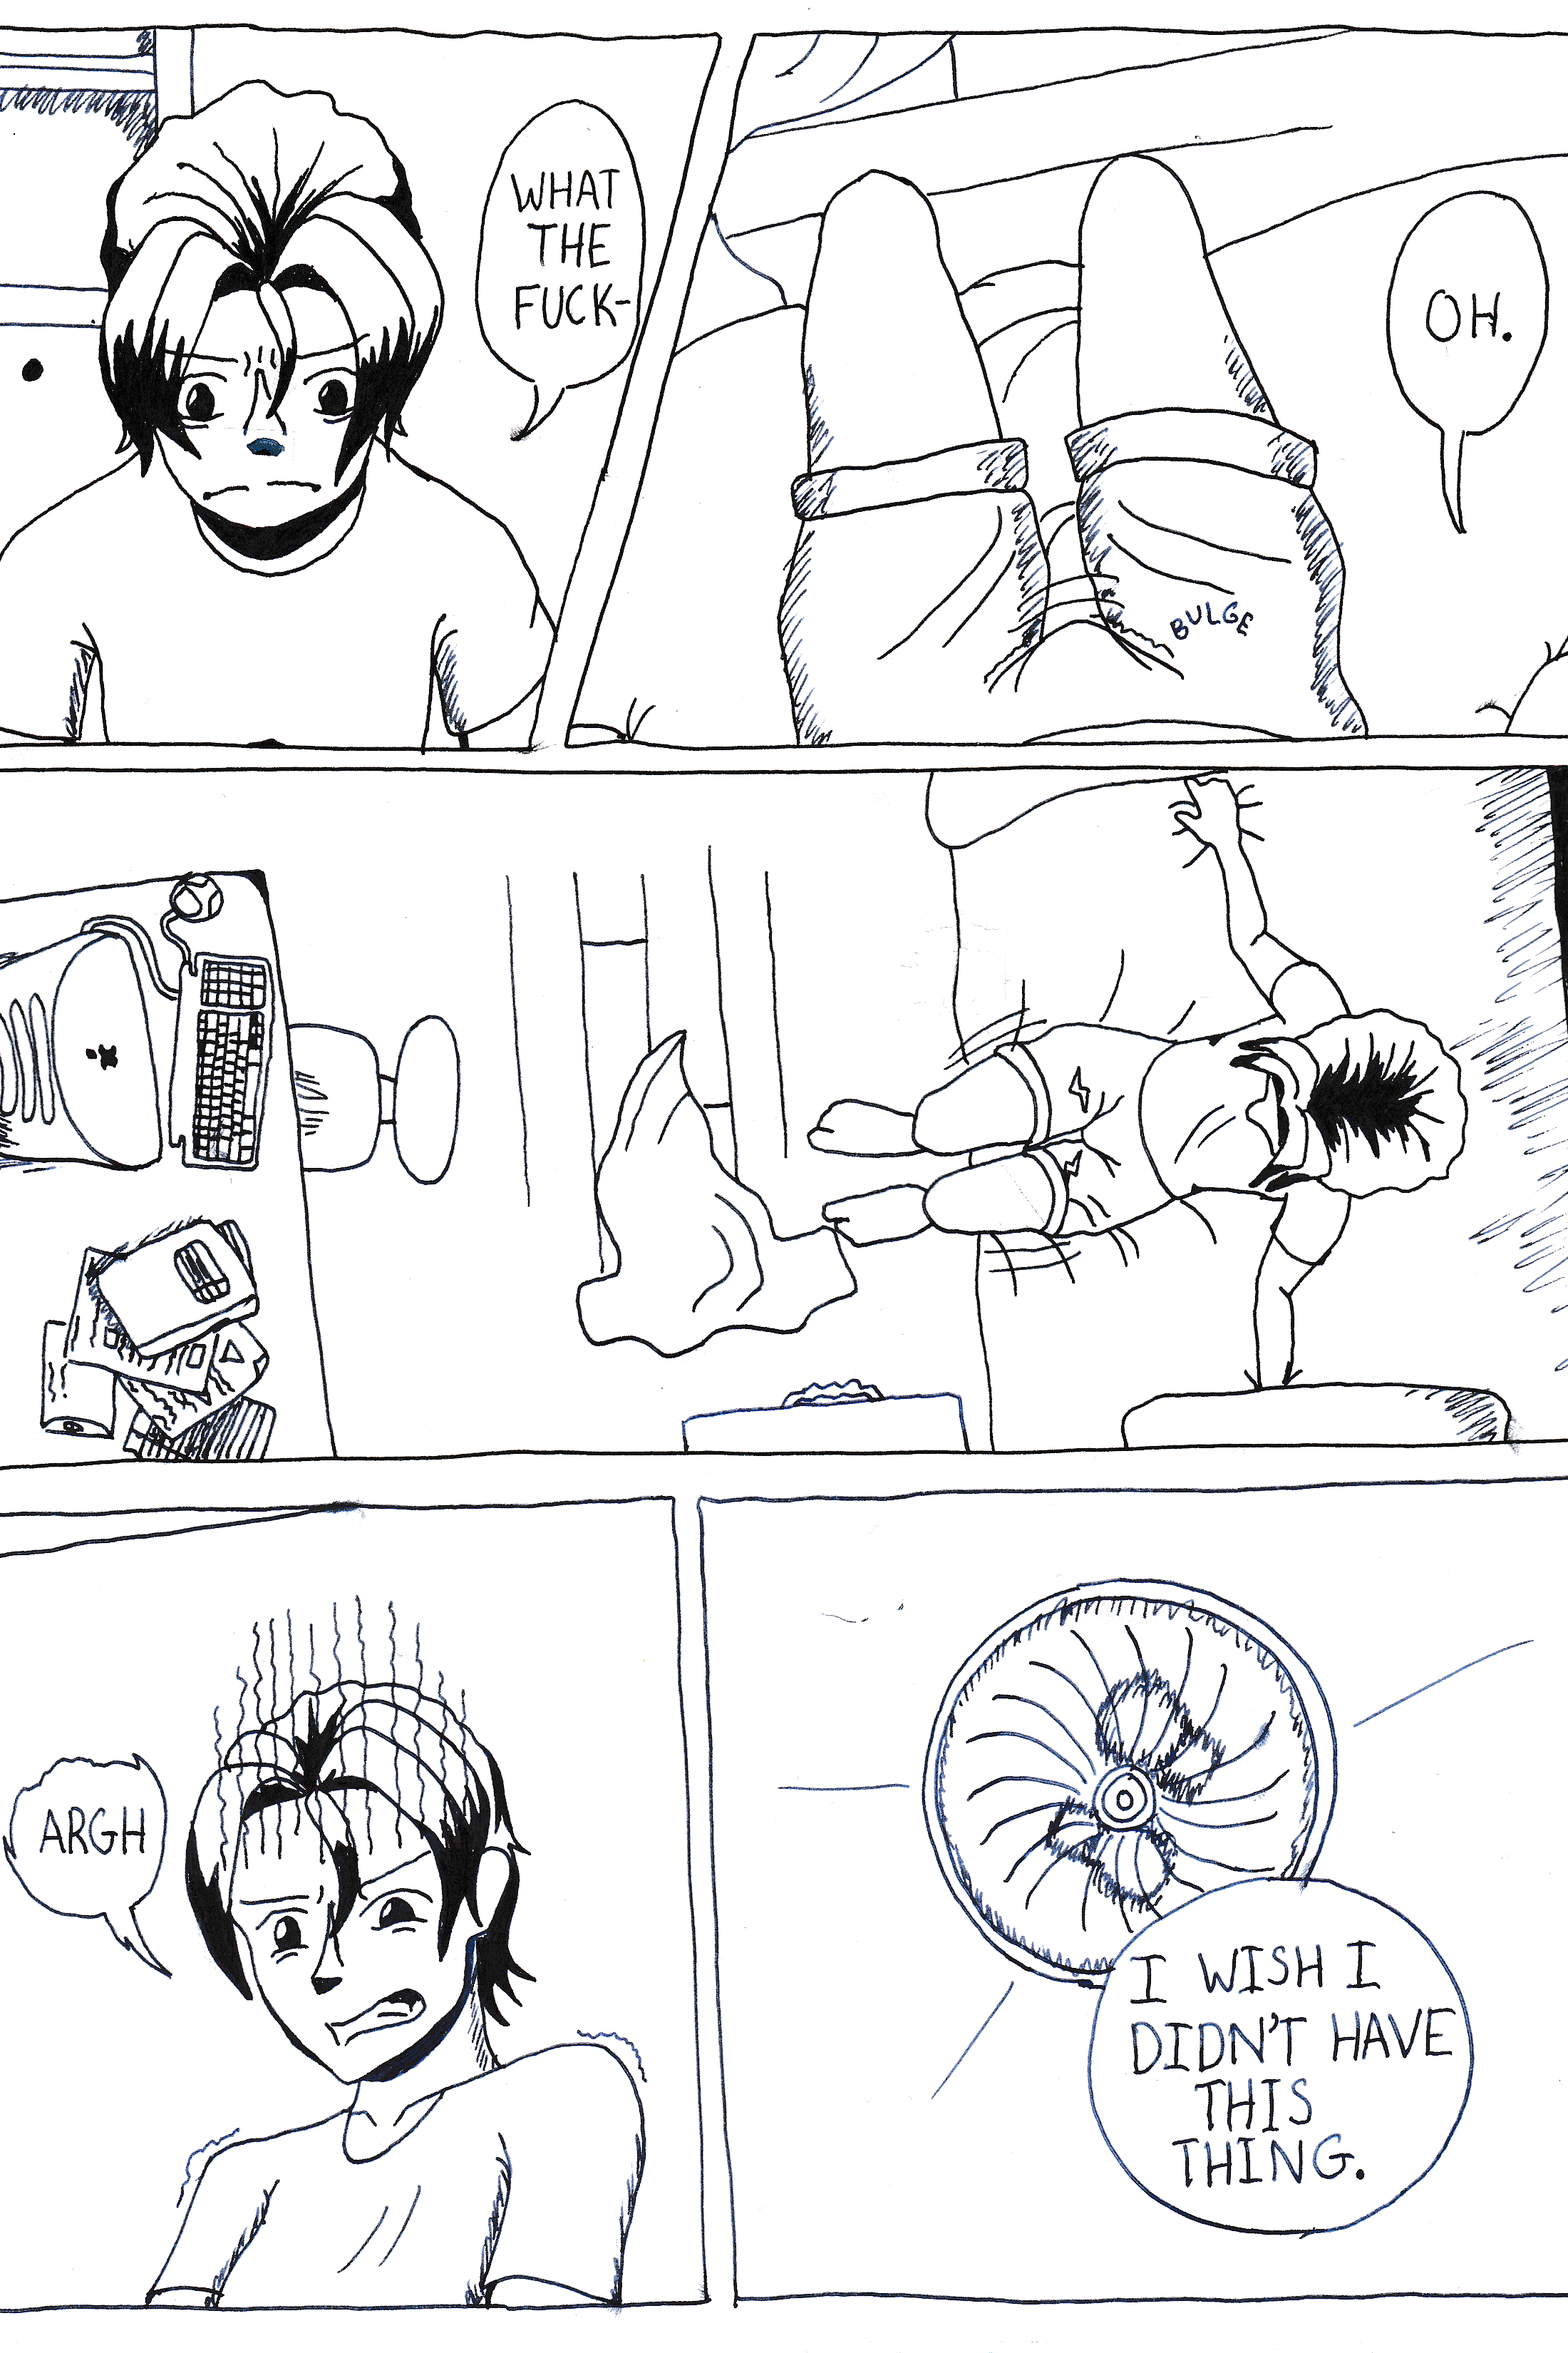
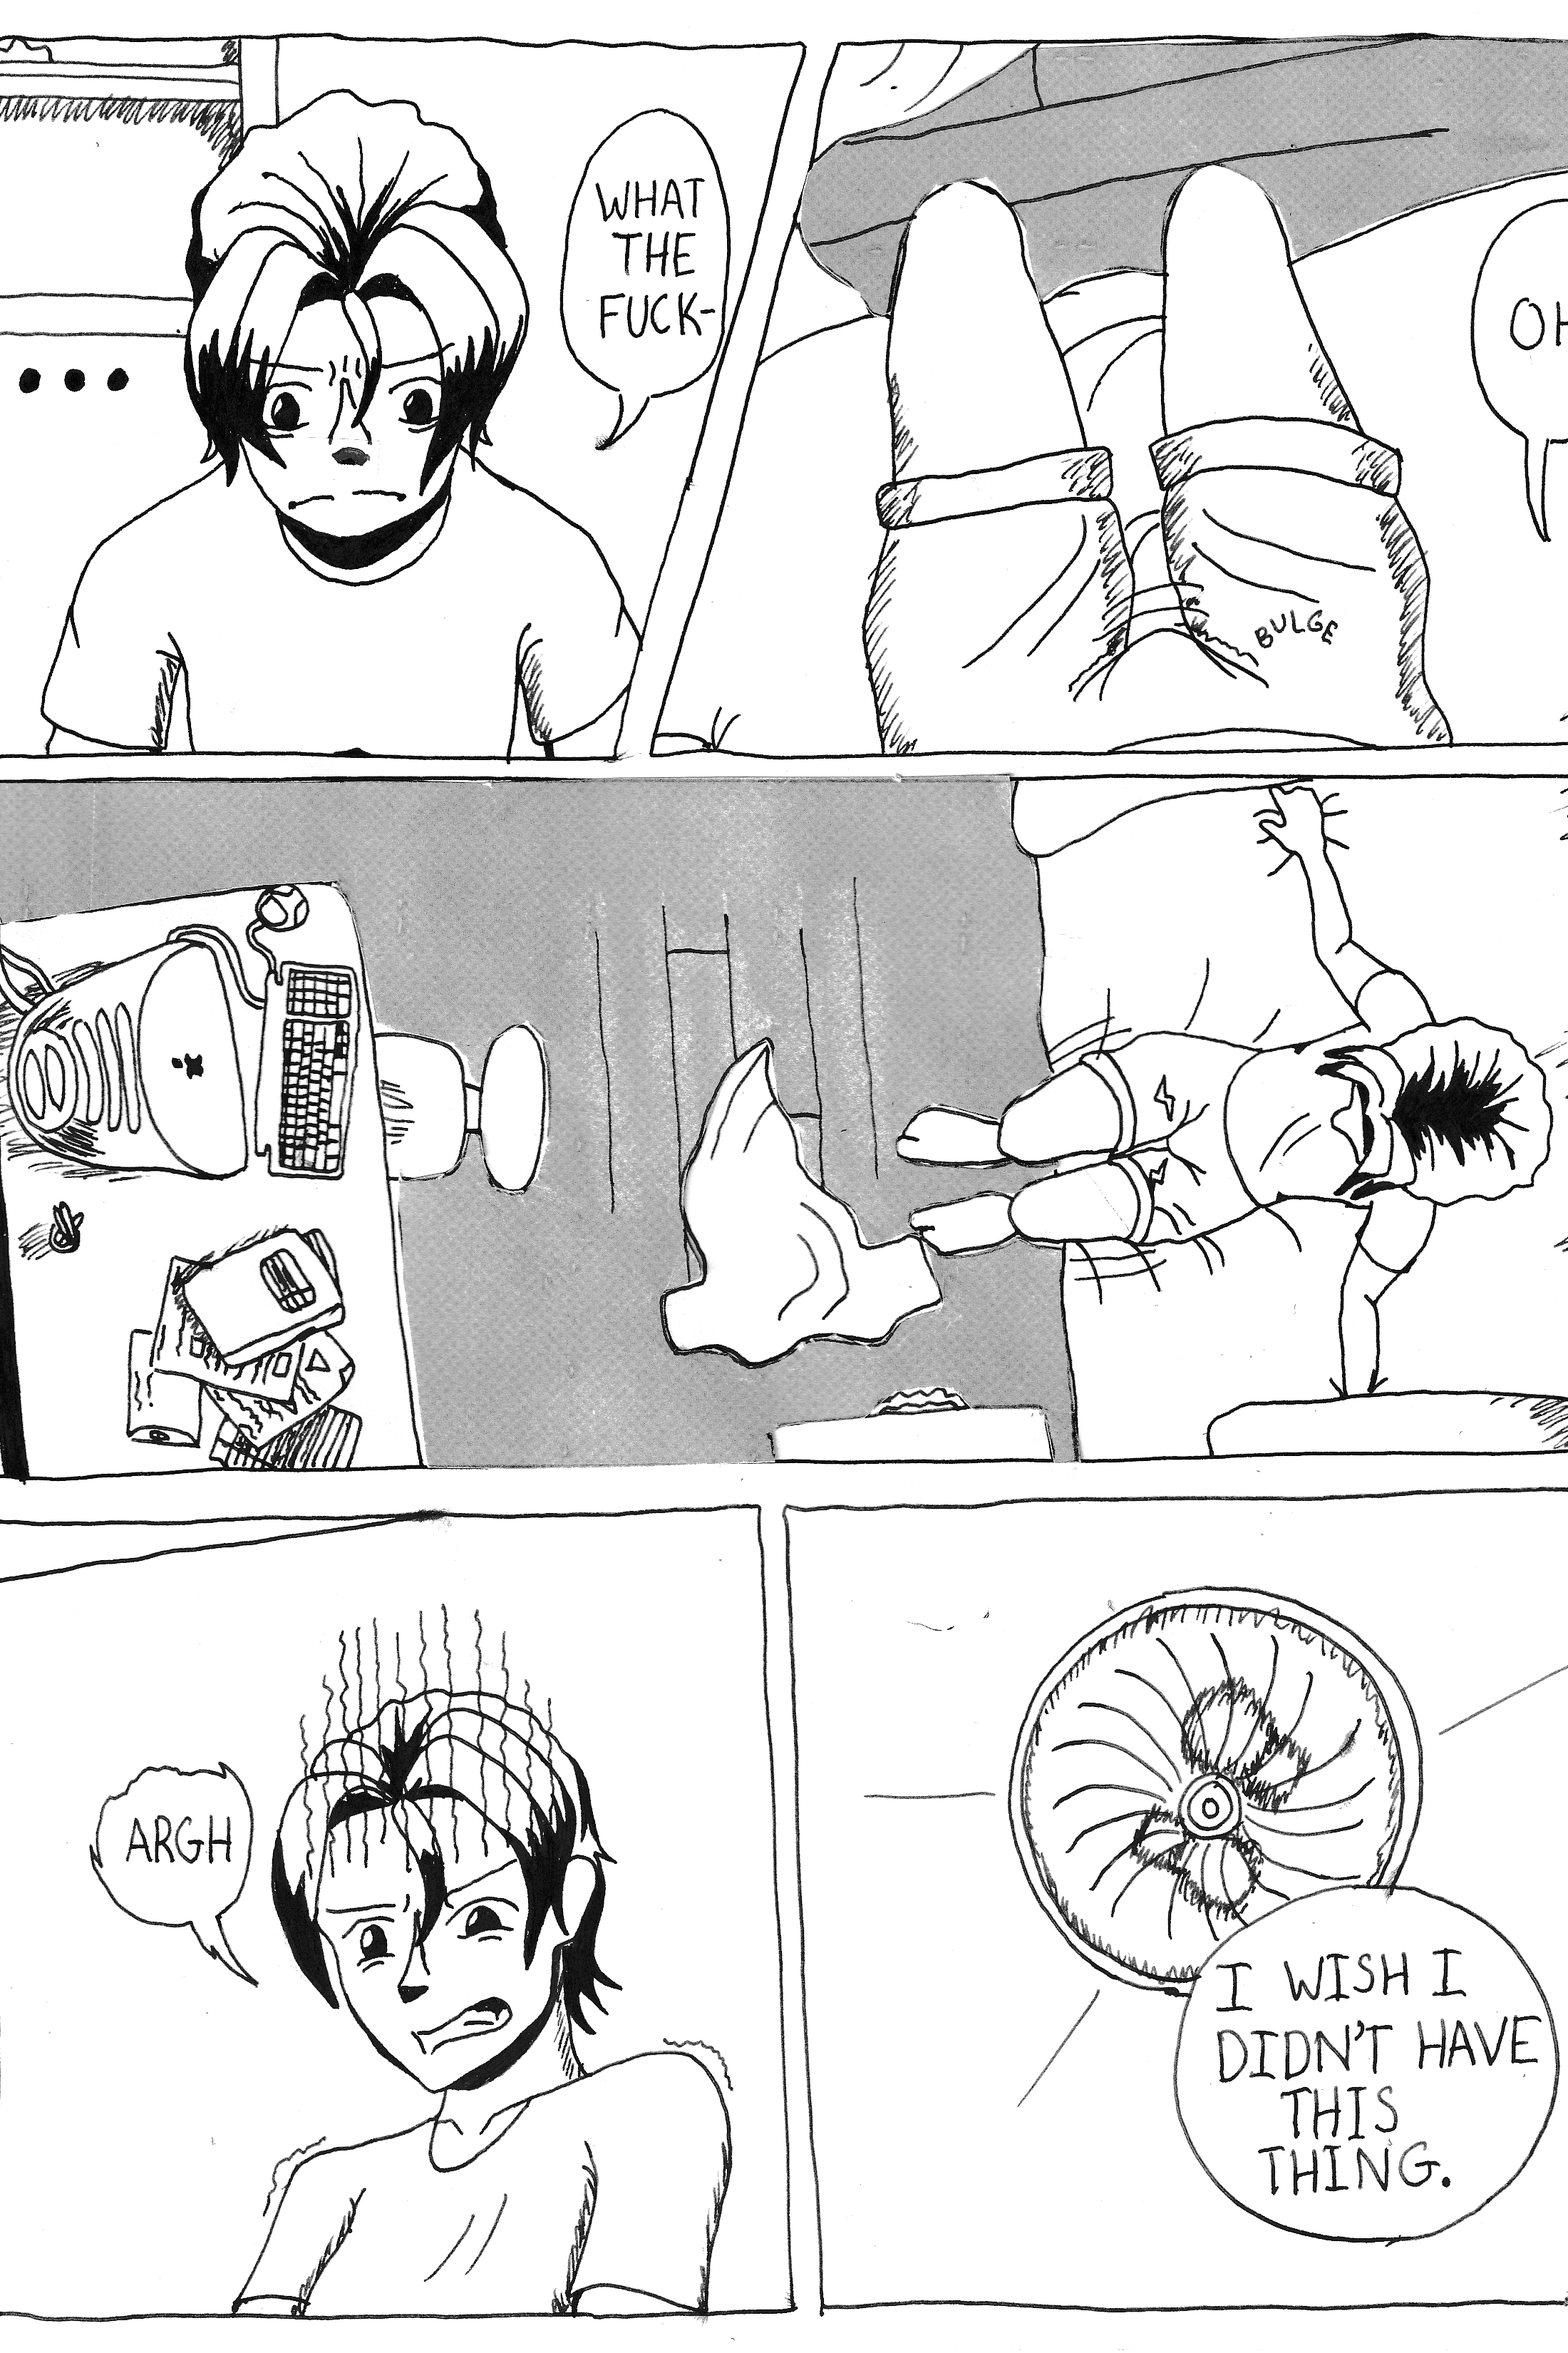
medium overdrive update
pages now have screentones and page 8 has been added as a bonus

diff --git a/mediumoverdrive/GUI/rotater.js b/mediumoverdrive/GUI/rotater.js
@@ -1,0 +1,25 @@
+var scripts = document.getElementsByTagName('script');
+var index = scripts.length - 1;
+var myScript = scripts[index];
+
+var imgcol = myScript.src.replace(/^[^\?]+\??/,'');
+
+var headerimg;
+if (imgcol=='white'){
+headerimg='<a href="COLLECTIVE_HOMEPAGE_ADDRESS"><img src="ROTATOR_HEADER_IMAGE_COLOR1.PNG" alt="COLLECTIVE_NAME" title="COLLECTIVE_NAME"></a>';
+}
+else if (imgcol=='black'){
+headerimg='<a href="COLLECTIVE_HOMEPAGE_ADDRESS"><img src="ROTATOR_HEADER_IMAGE_COLOR2.PNG" alt="COLLECTIVE_NAME" title="COLLECTIVE_NAME"></a>';
+}
+
+//to add members: Copy a line for memberImg[#], and edit as needed.
+//to delete members: remove the member in question, make sure the rest of the numbers are in numerical order.
+//Numbers MUST be in order and must increment starting at 0 for this array.
+var memberImg = new Array();
+memberImg[0] = '<a href="MEMBER_URL_1"><img src="FULL_URL_TO_IMAGE.PNG" alt="ALT TEXT HERE"></a>';
+memberImg[1] = '<a href="MEMBER_URL_2"><img src="FULL_URL_TO_IMAGE.PNG" alt="ALT TEXT HERE"></a>';
+
+//This does the random picking on each load of the script.
+var randomObjNum = Math.floor(Math.random()*memberImg.length);
+
+document.write('<div class="RotatorScript" style="line-height:0; width: 165px; display: inline-block;">',headerimg,'<br>',memberImg[randomObjNum],'</div>');

diff --git a/mediumoverdrive/comic/p8.htm b/mediumoverdrive/comic/p8.htm
@@ -1,0 +1,44 @@
+<!DOCTYPE html>
+<html lang="en">
+<head>
+    <meta charset="UTF-8">
+    <meta name="viewport" content="width=device-width, initial-scale=1.0">
+    <title>Medium Overdrive - p8</title>
+    <link rel="stylesheet" href="GUI/mo.css">
+</head>
+<body>
+<div class="body2">    
+    
+    <h1><img src="GUI/comicIcon.png" style="height: 48px; width: 48px; float: left;"><i>Medium Overdrive - p8</i></h1>
+
+	<div class="nav">
+	<table style="padding:0;">
+	  <tr>
+		<td width="92px">
+		<a href="../index.htm" style="float:left;width:64px;">| Home |</a>
+		</td>
+		<td width="64px">
+		<a href="../about.htm" style="float:left;width:64px;">| About |</a>
+		</td>
+	  </tr>
+	</table>
+	</div>
+
+    <div class="iconlinkcontainor" style="height:990px;">
+	
+	<img src="GUI/p8.png" height="750px" width="500px" style="margin-left:56px;margin-top:20px;">
+	
+	<br><br>
+	
+	<div class="iconlink" style="margin-left:128px;"><a href="p7.htm" alt="Back"><img src="GUI/back.png" height="96px"></a><br>Back</div>
+	<div class="iconlink"><a href="p9.htm" alt="Forward"><img src="GUI/bforw.png" height="96px"></a><br>Forward</div>
+	
+	</div>
+
+    <footer>
+        Copyright © Nov 2022-2023. Abacas Online. All rights reserved.
+    </footer>
+
+</div>
+</body>
+</html>

diff --git a/mediumoverdrive/index.htm b/mediumoverdrive/index.htm
@@ -7,6 +7,9 @@
     <link rel="stylesheet" href="GUI/mo.css">
 </head>
 <body>
+
+<script src="GUI/rotator.js?white"></script>
+
 <div class="body2">    
     
     <h1><img src="GUI/logo.png" style="height: 48px; width: 48px; float: left;"><i>Medium Overdrive - Start</i></h1>
